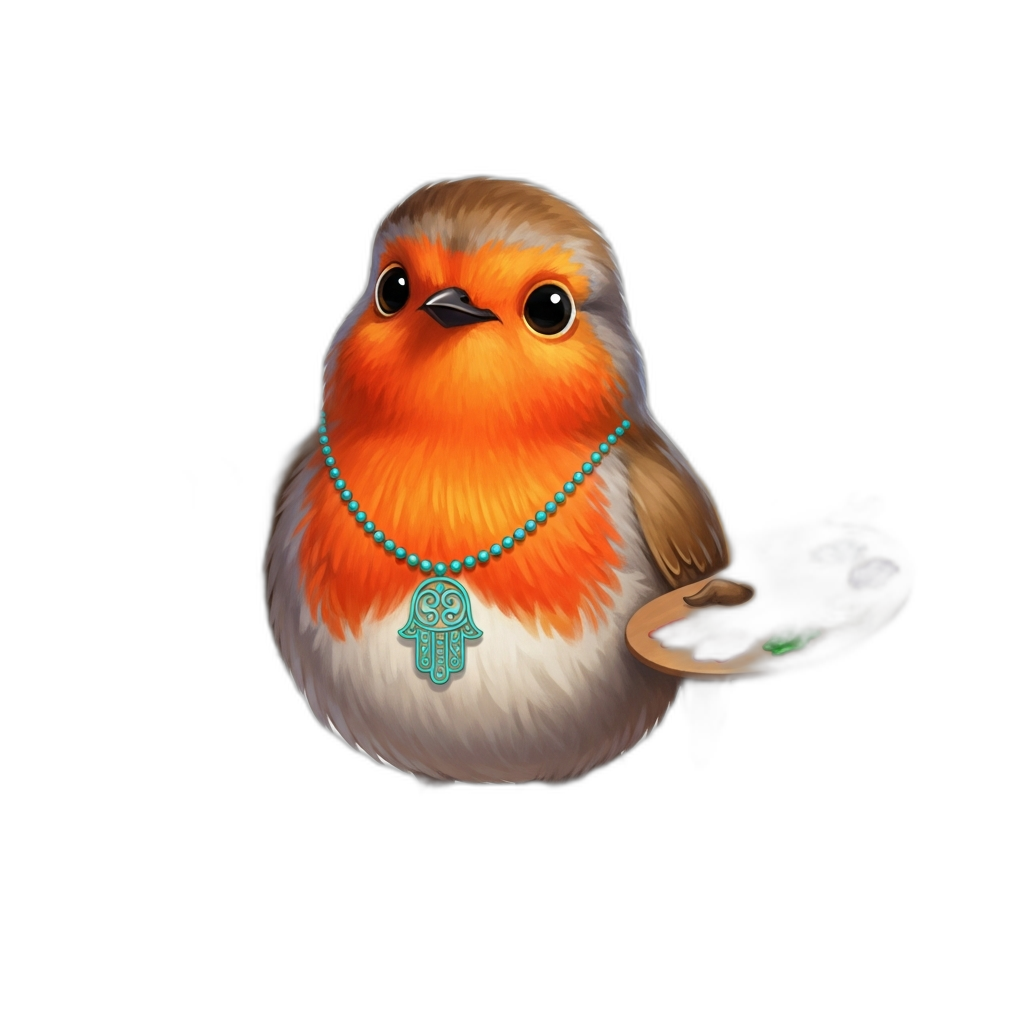
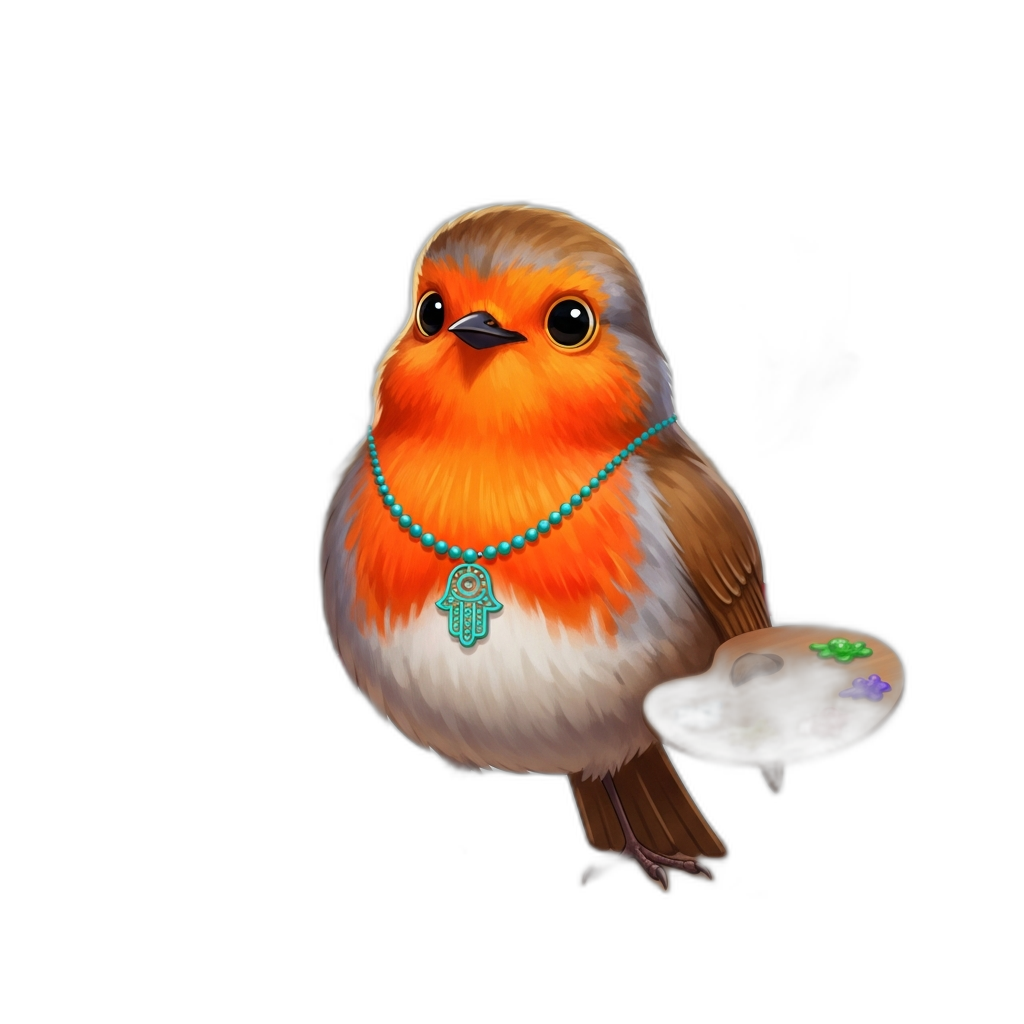
feat(sprout): 2x2 archetype grid with wiggle animations; Imagen 4 creator robin
- Sprout archetypes: 3-card Row → 2×2 GridView matching Explorer band layout
- Art Maker archetype restored (back to 4 choices: Brave Explorer, Lightning
  Runner, Art Maker, Animal Whisperer)
- Unselected sprout cards have WiggleWidget (repeat, staggered 300 ms per card)
  to animate subtly and catch attention
- Selected sprout cards bounce on tap via BounceOnTapWidget
- Label font bumped to 13 px for sprout readability
- Creator band robin regenerated 1024×1024 via Imagen 4 (original source was
  745×749) — robin with painter's palette, teal hamsa necklace, transparent bg
- TEAM_COORDINATION.md: add companion screen UX + TTS speed + robin session entry

Changed region(s): [[0.25, 0.1562, 0.9062, 0.875]]

diff --git a/lib/screens/wizard_steps/hero_creator_step.dart b/lib/screens/wizard_steps/hero_creator_step.dart
@@ -2792,96 +2792,9 @@ class _HeroCreatorStepState extends State<HeroCreatorStep>
     // Sprout/Explorer see 4 age-appropriate archetypes; older bands get all 6.
     final archetypes = CharacterArchetypes.forBand(ageBand);
 
-    // Sprout: 3-card row — one choice per personality type, less overwhelming.
-    // Explorer: 2-column grid (has more archetypes).
-    if (ageBand == AgeBand.sprout) {
-      return Row(
-        children: List.generate(archetypes.length, (index) {
-          final a = archetypes[index];
-          final isSelected = _selectedArchetypeId == a.name;
-
-          Widget card = Semantics(
-            button: true,
-            selected: isSelected,
-            label: 'Role: ${a.name}',
-            hint: isSelected
-                ? 'Currently selected. Double tap to keep this role.'
-                : 'Double tap to select this role for your hero.',
-            child: AspectRatio(
-              aspectRatio: 0.85,
-              child: AnimatedContainer(
-                duration: const Duration(milliseconds: 220),
-                decoration: BoxDecoration(
-                  borderRadius: BorderRadius.circular(18),
-                  border: Border.all(
-                    color: isSelected ? const Color(0xFFFFD700) : Colors.white24,
-                    width: isSelected ? 3 : 2,
-                  ),
-                  boxShadow: isSelected
-                      ? [BoxShadow(color: const Color(0xFFFFD700).withAlpha(100), blurRadius: 12)]
-                      : [],
-                ),
-                child: ClipRRect(
-                  borderRadius: BorderRadius.circular(16),
-                  child: Stack(
-                    fit: StackFit.expand,
-                    children: [
-                      Container(color: const Color(0xFF1A0A2E)),
-                      if (a.imagePathForBand(ageBand) != null)
-                        Image.asset(a.imagePathForBand(ageBand)!, fit: BoxFit.cover, alignment: Alignment.topCenter)
-                      else
-                        Icon(Icons.star, color: const Color(0xFFFFD700), size: 40),
-                      Positioned(
-                        bottom: 4, left: 4, right: 4,
-                        child: Center(
-                          child: Container(
-                            padding: const EdgeInsets.symmetric(horizontal: 6, vertical: 3),
-                            decoration: BoxDecoration(
-                              color: Colors.black.withAlpha(150),
-                              borderRadius: BorderRadius.circular(10),
-                            ),
-                            child: Text(
-                              a.nameForAge(widget.wizardData.characterAge),
-                              textAlign: TextAlign.center,
-                              maxLines: 2,
-                              overflow: TextOverflow.ellipsis,
-                              style: GoogleFonts.fredoka(
-                                color: Colors.white,
-                                fontSize: 12,
-                                fontWeight: FontWeight.bold,
-                              ),
-                            ),
-                          ),
-                        ),
-                      ),
-                    ],
-                  ),
-                ),
-              ),
-            ),
-          );
-
-          card = BounceOnTapWidget(
-            onTap: () => _selectArchetype(a),
-            child: isSelected
-                ? card
-                : WiggleWidget(
-                    repeat: true,
-                    angle: 0.04,
-                    duration: const Duration(milliseconds: 700),
-                    delayMs: index * 300,
-                    child: card,
-                  ),
-          );
-
-          return index == 0
-              ? Expanded(child: card)
-              : Expanded(child: Padding(padding: const EdgeInsets.only(left: 10), child: card));
-        }),
-      );
-    }
-
-    if (ageBand == AgeBand.explorer) {
+    // Sprout & Explorer: 2×2 grid — image-dominant cards.
+    if (ageBand == AgeBand.sprout || ageBand == AgeBand.explorer) {
+      final isSprout = ageBand == AgeBand.sprout;
       return GridView.builder(
         shrinkWrap: true,
         physics: const NeverScrollableScrollPhysics(),
@@ -2895,7 +2808,6 @@ class _HeroCreatorStepState extends State<HeroCreatorStep>
         itemBuilder: (context, index) {
           final a = archetypes[index];
           final isSelected = _selectedArchetypeId == a.name;
-          const isSprout = false;
 
           Widget card = Semantics(
             button: true,
@@ -2909,16 +2821,11 @@ class _HeroCreatorStepState extends State<HeroCreatorStep>
               decoration: BoxDecoration(
                 borderRadius: BorderRadius.circular(18),
                 border: Border.all(
-                  color:
-                      isSelected ? const Color(0xFFFFD700) : Colors.white24,
+                  color: isSelected ? const Color(0xFFFFD700) : Colors.white24,
                   width: isSelected ? 3 : 2,
                 ),
                 boxShadow: isSelected
-                    ? [
-                        BoxShadow(
-                            color: const Color(0xFFFFD700).withAlpha(100),
-                            blurRadius: 12)
-                      ]
+                    ? [BoxShadow(color: const Color(0xFFFFD700).withAlpha(100), blurRadius: 12)]
                     : [],
               ),
               child: ClipRRect(
@@ -2926,45 +2833,25 @@ class _HeroCreatorStepState extends State<HeroCreatorStep>
                 child: Stack(
                   fit: StackFit.expand,
                   children: [
-                    // Background + illustration fills the whole card.
                     Container(color: const Color(0xFF1A0A2E)),
                     if (a.imagePathForBand(ageBand) != null)
-                      Image.asset(
-                        a.imagePathForBand(ageBand)!,
-                        fit: BoxFit.contain,
-                        alignment: Alignment.center,
-                      )
+                      Image.asset(a.imagePathForBand(ageBand)!, fit: BoxFit.contain, alignment: Alignment.center)
                     else
-                      Center(
-                        child: Text(
-                          a.icon ?? '✨',
-                          style: const TextStyle(fontSize: 72),
-                        ),
-                      ),
-                    // Selection checkmark.
+                      Center(child: Text(a.icon ?? '✨', style: const TextStyle(fontSize: 72))),
                     if (isSelected)
                       Positioned(
-                        top: 8,
-                        right: 8,
+                        top: 8, right: 8,
                         child: Container(
-                          decoration: const BoxDecoration(
-                            color: Color(0xFFFFD700),
-                            shape: BoxShape.circle,
-                          ),
+                          decoration: const BoxDecoration(color: Color(0xFFFFD700), shape: BoxShape.circle),
                           padding: const EdgeInsets.all(3),
-                          child: const Icon(Icons.check,
-                              size: 16, color: Colors.black),
+                          child: const Icon(Icons.check, size: 16, color: Colors.black),
                         ),
                       ),
-                    // Small pill label at bottom — overlay, not separate bar.
                     Positioned(
-                      bottom: 4,
-                      left: 6,
-                      right: 6,
+                      bottom: 4, left: 6, right: 6,
                       child: Center(
                         child: Container(
-                          padding: const EdgeInsets.symmetric(
-                              horizontal: 8, vertical: 3),
+                          padding: const EdgeInsets.symmetric(horizontal: 8, vertical: 3),
                           decoration: BoxDecoration(
                             color: Colors.black.withAlpha(140),
                             borderRadius: BorderRadius.circular(10),
@@ -2976,7 +2863,7 @@ class _HeroCreatorStepState extends State<HeroCreatorStep>
                             overflow: TextOverflow.ellipsis,
                             style: GoogleFonts.fredoka(
                               color: Colors.white,
-                              fontSize: 12,
+                              fontSize: isSprout ? 13 : 12,
                               fontWeight: FontWeight.bold,
                             ),
                           ),
@@ -2989,7 +2876,22 @@ class _HeroCreatorStepState extends State<HeroCreatorStep>
             ),
           );
 
-          card = GestureDetector(onTap: () => _selectArchetype(a), child: card);
+          if (isSprout) {
+            card = BounceOnTapWidget(
+              onTap: () => _selectArchetype(a),
+              child: isSelected
+                  ? card
+                  : WiggleWidget(
+                      repeat: true,
+                      angle: 0.04,
+                      duration: const Duration(milliseconds: 700),
+                      delayMs: index * 300,
+                      child: card,
+                    ),
+            );
+          } else {
+            card = GestureDetector(onTap: () => _selectArchetype(a), child: card);
+          }
 
           return card;
         },

diff --git a/lib/widgets/archetype_card.dart b/lib/widgets/archetype_card.dart
@@ -383,9 +383,9 @@ class CharacterArchetypes {
   /// Returns a filtered list for young bands (Sprout/Explorer get 4 archetypes).
   static List<ArchetypeData> forBand(AgeBand band) {
     if (band == AgeBand.sprout || band == AgeBand.explorer) {
-      // 3 archetypes for ages 3-5 (fewer choices = less overwhelming):
-      // Brave Explorer (brave), Lightning Runner (fast), Animal Whisperer (gentle)
-      return [adventurer, athlete, shyOne];
+      // 4 archetypes for ages 3-5:
+      // Brave Explorer (brave), Lightning Runner (fast), Art Maker (creative), Animal Whisperer (gentle)
+      return [adventurer, athlete, artist, shyOne];
     }
     return all;
   }

diff --git a/TEAM_COORDINATION.md b/TEAM_COORDINATION.md
@@ -1,5 +1,81 @@
 # Team Coordination
 
+## 2026-03-31 — Companion Screen UX + TTS Speed Fix + Robin Image Replacement (Claude Sonnet 4.6)
+
+**Goal:** Fix issues found during a 5-year-old walkthrough of the companion selection screen; fix ElevenLabs speed parameter not reaching the API; replace all 6 band robin images with new illustrated set.
+
+### Companion Screen Improvements (`hero_creator_step.dart`)
+
+| Issue | Fix |
+|-------|-----|
+| Tapping a new companion required unselecting first | `maxCompanions == 1` path now clears selection before adding the new one (radio behaviour) |
+| All companion circles used one dark purple background regardless of animal | Added `backgroundColor: Color?` to `_CompanionData`; dragon=`0xFF7E57C2`, bunny=`0xFFEC407A`, puppy=`0xFFF9A825`, robin=`0xFF388E3C`; passed through to `AnimatedContainer` circle |
+| Companion icons were static | Added `SingleTickerProviderStateMixin` + 2.4 s float animation to `_CompanionImageButtonState`; unselected icons drift up 6 px and back (easeInOut); offset staggered by `id.hashCode` so animals float out of phase |
+| "Bring someone along" friend-name input shown for all ages | Wrapped in `if (band.band != AgeBand.sprout)` — Sprout never sees free-text companion entry |
+| Pet card (BYOP) visible for Sprout unprompted | Replaced with "Ask a grown-up to add a special friend!" tap button that reveals the `_PetCard` on press (`_showPetCardForSprout` bool) |
+
+### TTS Speed Fix
+
+`rateScale` was correctly slowing the on-device FlutterTts fallback but was **not** reaching ElevenLabs — `TtsApiService.synthesize()` had no `speed` parameter, so every cloud-generated phrase played at 1.0×.
+
+Fixed by threading `speed` end-to-end:
+- `AppTtsService.speak()` → passes `speed: rateScale.clamp(0.7, 1.2)` to `TtsApiService.synthesize()`
+- `TtsApiService.synthesize()` → includes `"speed": speed` in JSON body when `speed != 1.0`
+- `backend/routes/tts_routes.py` → reads and clamps speed from request body
+- `backend/elevenlabs_tts_service.py` → passes speed to `VoiceSettings`; defensive try/except so older SDK versions fall back gracefully
+
+Pre-warm phrases updated to include all sprout archetype names and companion names so ElevenLabs is always used for these (never the robotic fallback).
+
+### Robin Image Replacement (All 6 Bands)
+
+New illustrated robin set provided by user — same character (orange-red European robin, teal hamsa beaded necklace) in age-appropriate settings:
+
+| Band | Image | Notes |
+|------|-------|-------|
+| sprout | mushroom/flowers setting | cute, friendly |
+| explorer | magic wand/standing | adventurous |
+| adventurer | forest branch, glitter wings | dynamic |
+| creator | Imagen 4 generated | 1024×1024 — AI regenerated (original source was 745×749); robin with painter's palette |
+| adolescent | forest branch, magical | expressive |
+| adult | dark comic style on fence post | refined |
+
+All images processed through `rembg` for transparent backgrounds. Script saved as `scripts/remove_companion_backgrounds.py`.
+
+Creator robin regenerated separately using **Imagen 4** (`imagen-4.0-generate-001`) to match style of the set. Script saved as `backend/generate_creator_robin.py`.
+
+### Files Changed
+
+| File | What |
+|------|------|
+| `lib/screens/wizard_steps/hero_creator_step.dart` | Radio companion select; per-companion colors; float animation; sprout pet card button; Sprout archetype grid → 2×2; wiggle/bounce animations for sprout |
+| `lib/services/app_tts_service.dart` | Thread `rateScale` to ElevenLabs `speed`; expand prewarm list |
+| `lib/services/tts_api_service.dart` | Add `speed` param to `synthesize()` |
+| `backend/routes/tts_routes.py` | Read + clamp speed from request body |
+| `backend/elevenlabs_tts_service.py` | Defensive `VoiceSettings(speed=...)` with try/except |
+| `assets/images/companions/*/robin.png` (6 files) | New illustrated robins, transparent backgrounds |
+| `assets/images/companions/sprout/*.png` (3 files) | Background removed via rembg |
+| `scripts/remove_companion_backgrounds.py` | NEW — rembg batch script |
+| `lib/widgets/archetype_card.dart` | `forBand()` returns 4 archetypes for Sprout/Explorer (added `artist` back); 2×2 grid layout for both |
+| `backend/generate_creator_robin.py` | NEW — Imagen 4 creator robin generation script |
+
+### Sprout Archetype Grid Revision
+
+After committing the 3-card Row layout, revised again to a **2×2 GridView** matching Explorer band:
+- Sprout now shows 4 archetypes: Brave Explorer, Lightning Runner, **Art Maker** (restored), Animal Whisperer
+- Cards have `WiggleWidget` (repeat=true, angle=0.04, staggered by 300 ms × index) on unselected items so they animate subtly to catch attention
+- Selected cards wrap in `BounceOnTapWidget` for tactile feedback
+- Label font size bumped to 13 px for sprout readability (vs 12 for explorer)
+
+### Status
+- [x] Companion radio select + colors + animation — committed `95092fe`
+- [x] Sprout pet card button — committed `95092fe`
+- [x] TTS speed fix — committed `b2b8a9b`
+- [x] Robin images (all 6 bands) + rembg — committed `95092fe`
+- [x] Creator robin Imagen 4 regeneration — this commit
+- [x] Sprout archetype 2×2 grid + 4 cards + wiggle animations — this commit
+
+---
+
 ## 2026-03-30 — Age Picker Redesign + BYOK Key-Not-Saved Bug Fix (Claude Sonnet 4.6)
 
 **Goal:** Simplify the first-screen age picker for young children; fix a critical bug where completing the BYOK wizard from any entry point other than Settings never saved the API key.
